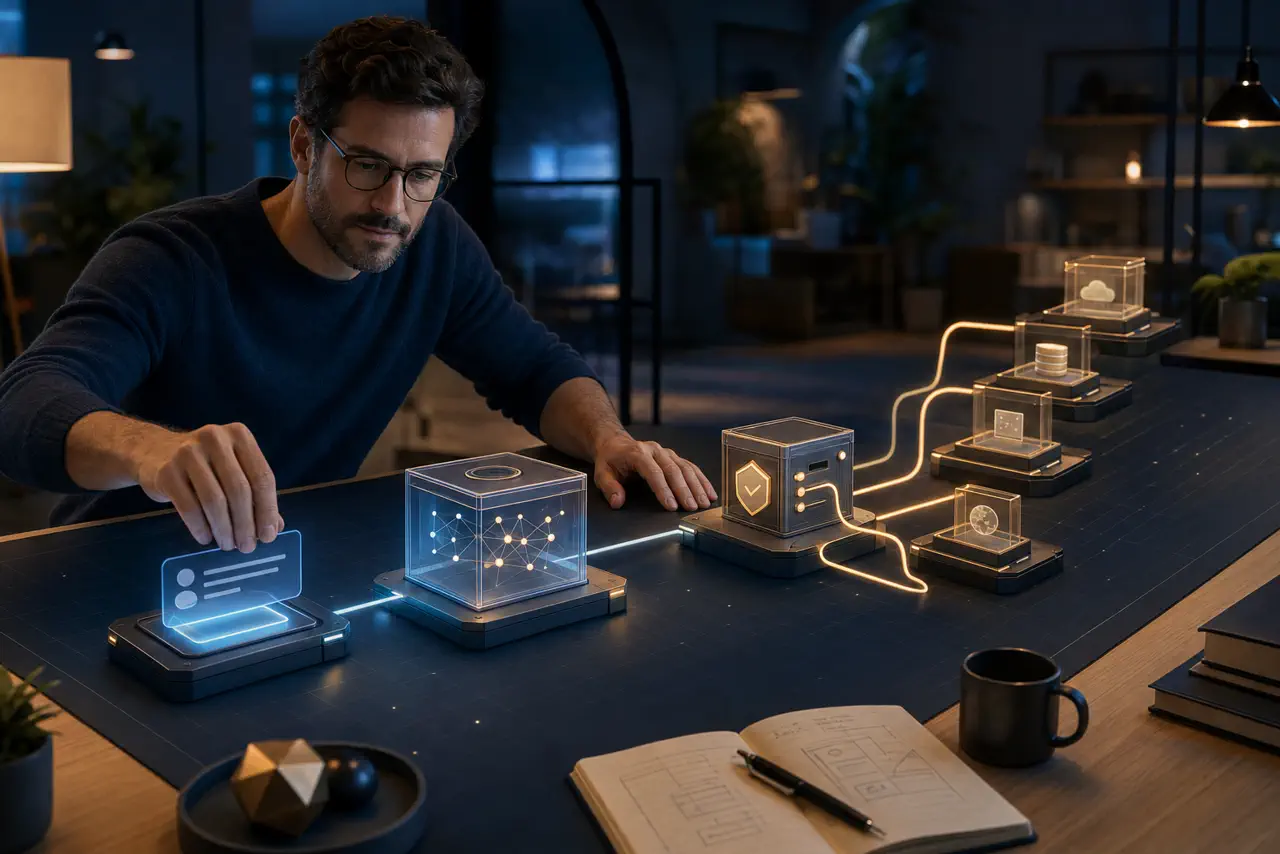
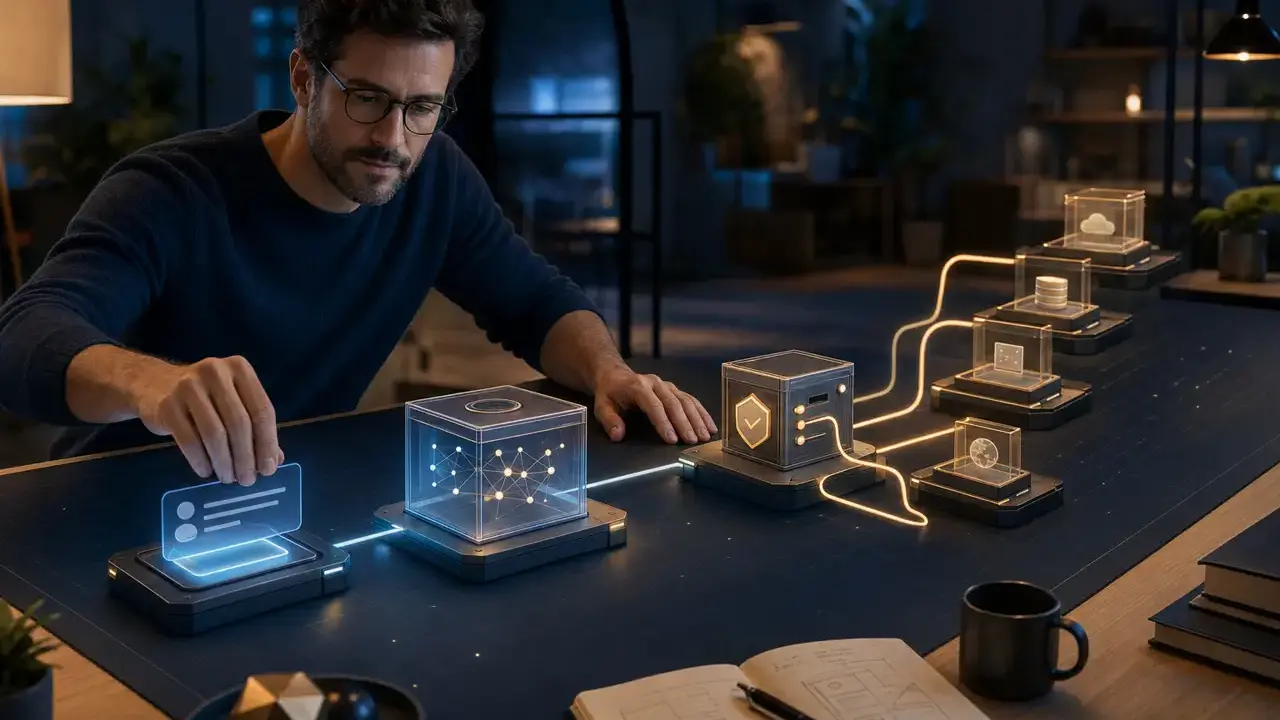
feat(articles): normalize MindStudio review visuals

diff --git a/articles/mindstudio-ai-agent-builder/IMAGE_PROVENANCE.md b/articles/mindstudio-ai-agent-builder/IMAGE_PROVENANCE.md
@@ -1,0 +1,8 @@
+# Image provenance
+
+- Article slug: `mindstudio-ai-agent-builder`
+- Original assets: AI-generated raster editorial artwork created for the initial article on 2026-07-17; no third-party brand artwork or screenshots.
+- Visual direction: cinematic operator-workshop scenes using physical workflow, contract, and evaluation metaphors; no readable product UI, logos, or proprietary trade dress.
+- 2026-07-21 remediation: retained the original cover, contract, and evaluation compositions after visual inspection; normalized the cover to 1280×720 WebP and the two selected body images to 960×540 WebP at quality 82.
+- Published body set: `mindstudio-ai-agent-builder-contract.webp` and `mindstudio-ai-agent-builder-evaluation.webp`.
+- Unused legacy asset: `mindstudio-ai-agent-builder-deployment.webp` remains in repository history but is not referenced by the remediated article.
